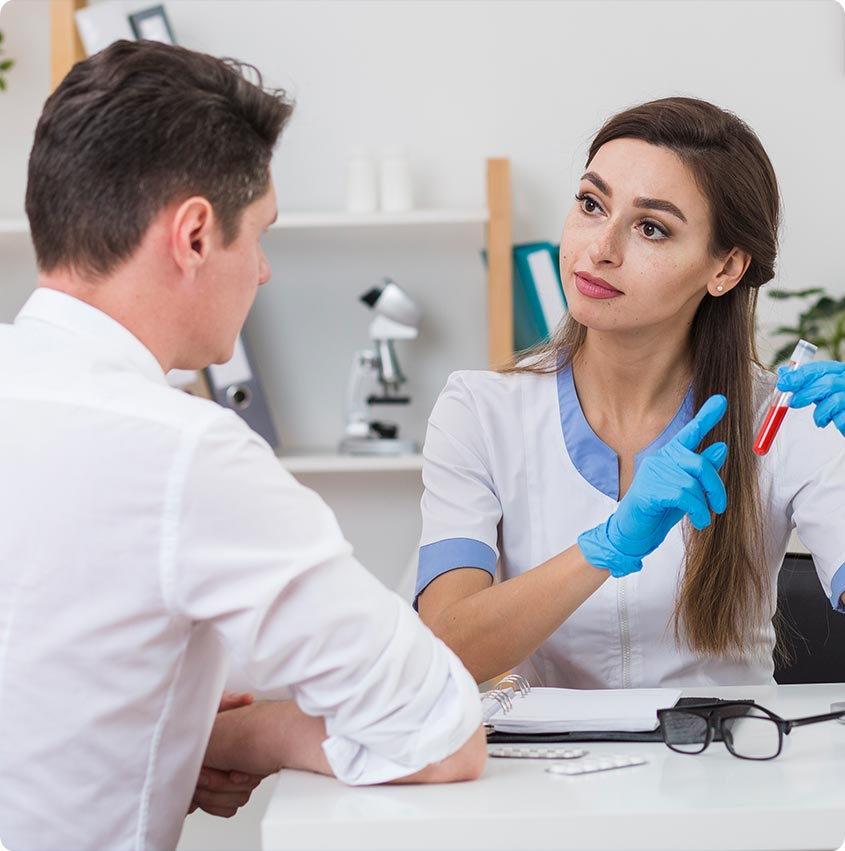
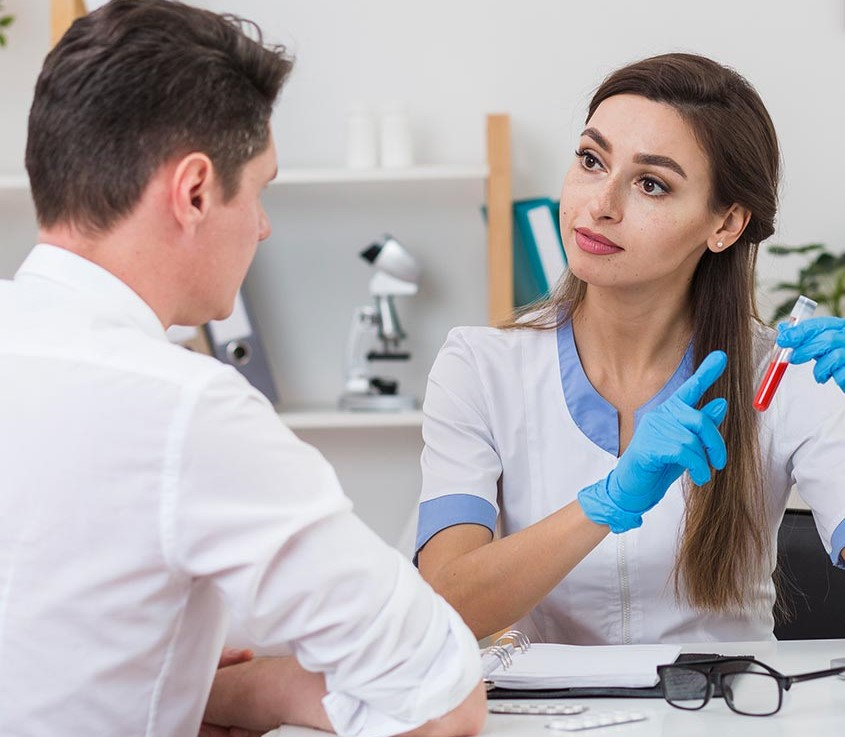
about_sec
.

diff --git a/home.css b/home.css
@@ -600,7 +600,7 @@ background-color: black;
 
 .hero .info_box{
 max-width: 1320px;
-width: 100%;
+/* width: 100%; */
 background-image: url(images/DNA.png);
 background-size: cover;
 background-position: center;
@@ -612,10 +612,11 @@ align-items: center;
 gap: 70px;
 position: absolute;
 top: 85%;
-left: 50%;
-transform: translateX(-50%);
-margin: auto;
-
+left: 0;
+right: 0;
+/* transform: translateX(-50%); */
+ margin: auto; 
+/* margin-bottom: 1000px; */
 }
 
 
@@ -709,8 +710,8 @@ max-width: 100%;
 padding: 40px;
 width: 80%;
 margin: auto;
-margin-top: 200px ;
-margin-bottom: 200px;
+
+ margin-top: 200px ; 
 
 }
 .info>p{
@@ -729,11 +730,17 @@ margin-bottom: 200px;
     
 }
 
+ @media (max-width:768px) {
+.hero .info_box {
+padding: 40px 15px;
+width: 100%;
+gap: 30px;
 
 
+margin-top: 180px ; 
 
-
-
+}
+}
 
 
 
@@ -753,7 +760,171 @@ margin-bottom: 200px;
 
 
 
+/* ! About_us sec */
 
+.about_us{
+
+/* padding-top: 150px;
+padding-bottom: 100px; */
+padding: 100px 0px;
+margin-top: 70px;
+
+}
+
+.about_img{
+    /* background-image: url(images/about_4.jpg);
+    background-size: cover;
+    background-repeat: no-repeat;
+    background-position: center center;
+    border-radius: 0 10px 10px 0;
+    margin-bottom: 30px;
+     */
+     border-radius: 0 10px 10px 0;
+     height: 555px;
+      overflow: hidden;
+}
+.about_us img{
+transform: translateY(-70px);
+/* width: 100%;
+object-fit: cover; */
+max-width: 100%;
+vertical-align: middle;
+overflow-clip-margin: content-box;
+overflow: clip;
+object-fit: cover;
+border-radius: 0 10px 10px 0;
+margin-bottom: 30px;
+}
+
+.about_us .right{
+padding: 0;
+padding-left:80px;
+
+}
+.about_us .right span{
+
+color: #0046c0;
+font-weight: 700;
+font-size: 15px;
+}
+
+.about_us .right h2{
+font-size: 38px;
+width: 70%;
+line-height: 1.2;
+color: #232323;
+font-weight: 700;
+
+}
+.about_us .right .sec_title{
+    margin-bottom: 40px;
+
+}
+
+.about_us .about_features{
+display: flex;
+flex-direction: column;
+gap: 60px;
+}
+.about_us .about_features .fea_item{
+
+display: flex;
+align-items: center;
+
+gap: 40px;
+
+}
+/* .about_us .about_features .icon{
+
+display: flex;
+justify-content: center;
+align-items: center;
+
+} */
+ .about_us  .fea_item h3{
+    font-size: 24px;
+    font-weight: 600;
+    color: #4a6f8a;
+    margin-bottom: 10px;
+ }
+ .about_us  .fea_item p{
+    line-height: 1.5;
+    width: 60%;    
+    color: #4a6f8a;
+
+ }
+.about_us .about_features i{
+text-align: center;
+font-size: 35px;
+color: #111111;
+width: 70px;
+background-color: #f1f1f1;
+height: 70px;
+border-radius: 50%;
+display: flex;
+justify-content: center;
+align-items: center;
+box-shadow: 0 0 0 10px var(--blue-color);
+flex-shrink: 0;
+transition: 0.5s ease;
+}
+
+.about_us .icon:hover i{
+
+box-shadow: 0 0 0 10px #111111;
+
+}
+
+
+
+
+/* ~ Responsive about */
+@media (max-width : 991px) {
+    .about_img{
+        height: auto;
+    }
+    .about_us{
+        margin-top: 430px;
+    }
+    .about_us .right{
+        padding-left: 20px;
+    }
+    .about_us .right h2{
+        width: 100%;
+        font-size: 26px;
+    }
+    .about_us  .fea_item h3{
+    font-size: 20px;
+    margin-bottom: 8px;
+ }
+ .about_us  .fea_item p{
+    line-height: 1.5;
+    width: 100%;    
+    color: #4a6f8a;
+
+ }
+ .about_us img{
+    transform: translateY(0px);
+ }
+}
+
+ @media (max-width:768px) {
+    .about_us{
+        margin-top: 450px;
+    }
+    .about_us .right h2{
+        font-size: 22px;
+    }
+ 
+.about_us .about_features .fea_item{
+    gap: 20px;
+}
+}
+
+
+
+
+/* ! About_us sec */
 
 
 

diff --git a/home.html b/home.html
@@ -178,32 +178,85 @@
 
 
 
-
-
-
-
-
-
-
-
-
-
-
-
-
-
-
-
-
-
-
-
-
-
-
-
-
 <!-- ! end hero section -->
+ 
+
+
+
+
+
+
+
+
+
+<!-- ! start about_us section -->
+
+
+<section class="about_us ">
+        <div class="row m-0  align-items-center"> 
+    <div class="col-lg-6 p-0 about_img" > <img src="images/about_4.jpg" alt=""></div>
+    <div class="right col-lg-6  " >
+        <div class="sec_title">
+            <span>About us</span>
+            <h2>Welcome to Mediserv Hospital. We have...</h2>
+        </div>
+        <div class="about_features">
+            <div class="fea_item">
+                <div class="icon"><i class="fa-solid fa-user-doctor"></i></div>
+                <div class="fea_content">
+                    <h3>Certified Doctors</h3>
+                    <p>Experienced specialists providing quality healthcare  and dedication for every patient.</p>
+                </div>
+            </div>
+            <div class="fea_item">
+                <div class="icon"><i class="fa-solid fa-briefcase-medical"></i></div>
+                <div class="fea_content">
+                    <h3>Emergency Support</h3>
+                    <p>Available 24/7 to deliver immediate medical assistance whenever emergencies arise.</p>
+                </div>
+            </div>
+            <div class="fea_item">
+                <div class="icon" ><i class="fa-solid fa-network-wired"></i></div>
+                <div class="fea_content">
+                    <h3>Modern Equipment</h3>
+                    <p>Advanced medical technology ensuring accurate diagnosis and effective treatment .</p>
+                </div>
+            </div>
+        </div>
+        
+
+    </div>
+</div>
+</section>
+
+
+
+
+
+
+
+
+
+
+
+
+
+
+
+
+
+
+
+
+
+
+
+
+
+
+
+
+<!-- ! end about_us section -->
 
 
 